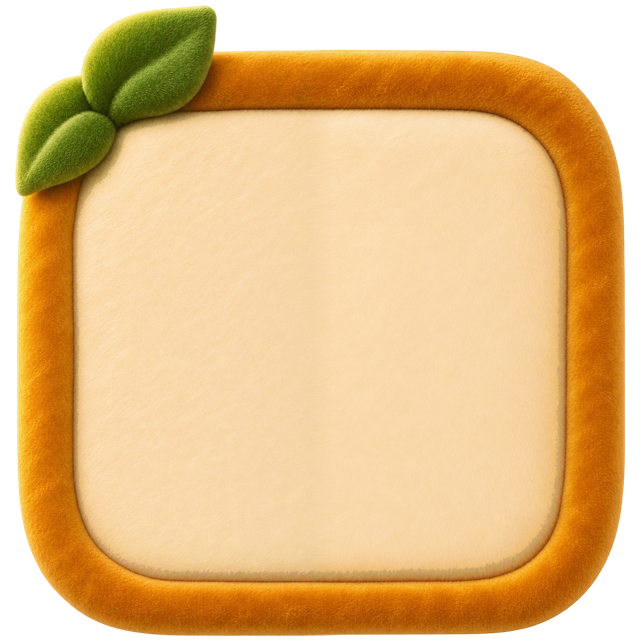
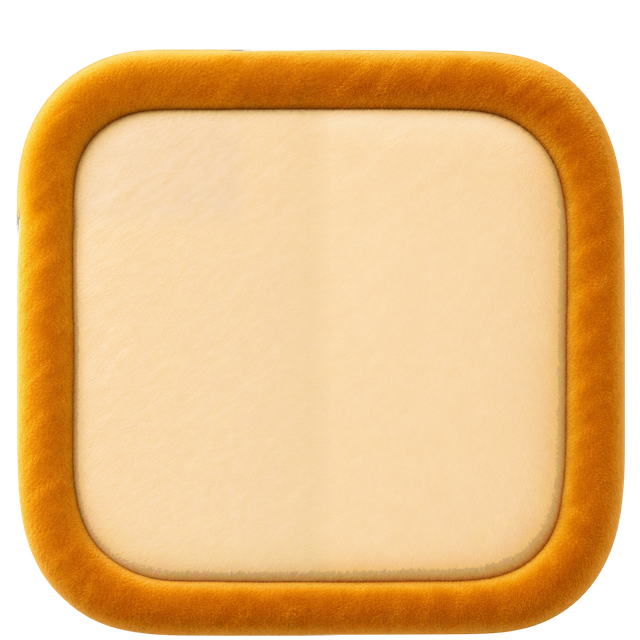
Paint level title ribbons and simplify plush panels

Changed region(s): [[0.0, 0.0, 0.375, 0.3438]]

diff --git a/docs/work-log/plush-ui-fixes/spec.md b/docs/work-log/plush-ui-fixes/spec.md
@@ -1,0 +1,39 @@
+# Plush UI art fixes
+
+The assigned art scope follows the binding `CLAUDE.md` lettering rules and the user's explicit asset request. No code or metadata changes are owned by this task.
+
+| Asset | Required output | Visual contract |
+| --- | --- | --- |
+| `Art/labels/label_title_level_<N>.png`, N = 1..40 | Forty RGBA PNGs, 2040 × 360 | Exact text `Level N`, generated together with the green velvet ribbon; match `label_title_daily_gift.png` lettering size, outline, lighting and two leaf clusters. |
+| `Art/labels/label_word_best.png` | RGBA PNG, height 150 | Painted `Best` alone, dark brown, no plate; cap height 100, baseline 126, matching brown numeral art. |
+| `Art/panel_wood.png` | RGBA PNG, 800 × 540 | Remove corner leaves while preserving honey-orange plush frame, cream area, thickness and 9-slice geometry. |
+| `Art/card_wood.png` | RGBA PNG, 640 × 640 | Same constrained removal as the panel. |
+
+Existing measurements: Daily Gift alpha bounds `(18,39)-(2022,320)`; panel bounds including leaves `(4,21)-(796,519)`; card bounds including leaves `(15,4)-(625,636)`. Brown 2 and 8 have alpha height 100, y 26..125. Existing slice borders (left, bottom, right, top) are panel `(150,100,150,110)` and card `(120,115,120,120)`; metadata remains untouched.
+
+Use the built-in image generation tool with the existing assets as references, generating multiple complete ribbons per image. No font rendering. Geometry-only processing may crop, size and place painted assets. Inspect every level's text at 300%. Record actual source resolution and any limits honestly.
+
+Required evidence: `art/sheet_levels.jpg` contains all forty levels. `art/sheet_best_panels.jpg` compares old/new panels on light/dark backgrounds and places Best beside brown digits 28. Preserve originals only in Git and temporary ignored build output. Commit and push only `plush-fix-art`.
+## Production prompt set
+
+All calls used the built-in image generation tool with `transparent_background: true`. The reference images were viewed before editing. The first four-title trial was discarded in favor of two-title sheets.
+
+Twenty two-title calls used the Daily Gift image (first pair) or a geometry-only sheet containing two unchanged copies of it (remaining pairs). Substitute consecutive pairs `(1,2)` through `(39,40)` below:
+
+> Use case: text-localization. The supplied image is the exact two-row EDIT TARGET. Preserve both ribbon silhouettes, green color, fine plush velvet texture, two leaf clusters, lighting and relative proportions exactly. Change ONLY the painted wording. Top ribbon text exactly "Level N"; Bottom ribbon text exactly "Level N+1". Cream-white thick rounded puffy painted letters with dark-green outline and soft shadow. Match the Daily Gift cap height and letter thickness exactly: about 195 pixels high on a 2040x360 tile. Text stays centered; shorter phrases leave more empty ribbon at the sides. Paint the whole lettering together with its ribbon, never fonts. Real alpha transparency outside both ribbons, clean cutout edges, no particles or halos. Highest resolution: requested 4080x1440 (two 4080x720 tiles); do not add captions or any other text.
+
+The common ribbon surface used for final size registration was generated with:
+
+> Use case: precise-object-edit. Exact EDIT TARGET supplied: this green velvet Daily Gift ribbon. Remove ONLY all lettering and its dark green outlines/shadows, seamlessly filling the former letters with the SAME green velvet ribbon surface. Keep the entire remaining ribbon exactly unchanged: identical wide aspect ratio, identical rounded padded green bar, identical two end leaf clusters with the exact leaf shapes and positions, same green hue, fine plush velvet texture, top-left warm light, transparent outer silhouette and original canvas padding. The output is one perfectly BLANK ribbon, no words, no letters, no symbols, no decoration added. Do not change size, proportions, shorten the bar, move leaves, or crop any part. Actual transparent alpha outside the ribbon. Highest available resolution for downscaling; target 4080x720.
+
+The panel and card were separately generated with:
+
+> Use case: precise-object-edit. EDIT TARGET is this existing UI panel sprite. Remove ONLY the green leaf clusters at its upper-left and lower-right corners, filling their places with the continuous honey-orange velvet frame and transparent exterior as appropriate. Preserve everything else exactly: same 800:540 canvas proportions, same scale and location, same rounded-rectangle silhouette and corner curves, same 50-60 pixel frame thickness (at 800 width), same cream interior with the SAME bounds, fine plush velvet texture, warm top-left light, same soft shadow. The panel body spans x=4..796, y=38..519 on the 800x540 reference. Cream interior spans approximately x=55..741 and y=96..461. Maintain these proportions and positions. No leaves anywhere, no foliage, no extra decoration, no text, no stitches, no fabric weave, no wood grain, no plastic. RGBA with real transparency outside the panel. Requested resolution 3200x2160, as large as available for clean downscaling. This is a constrained leaf-removal edit, not a redesign.
+
+> Use case: precise-object-edit. EDIT TARGET is the supplied existing square UI card. Remove ONLY the green leaf cluster at the upper-left corner. Fill its place with a continuous rounded honey-orange velvet frame and true transparent exterior where the leaf extended beyond the frame. Change nothing else. Preserve exact square canvas proportions, original panel scale/position, frame width about 57 pixels, rounded corner geometry, warm cream center area and its bounds, fine short plush velvet texture, soft top-left warm lighting and shadows. At the original 640x640 size the body bounds are x=16..625, y=49..636; center cream bounds approximately x=74..565, y=108..580. Preserve those geometry ratios, no change in frame thickness. No leaves anywhere, no text, no decorations, no seams, no stitching, no wood grain, no plastic. RGBA transparency outside the card. Request 2560x2560 high resolution for downscaling. This is a constrained leaf removal, not a redesign.
+
+The standalone word used the existing brown 2 and 8 as material references:
+
+> Use case: stylized-concept. Paint the exact word "Best" by hand as one transparent game UI word sprite, capital B then lowercase e s t, with clear complete letters. The two supplied brown numeral PNGs are the binding material, hue and stroke style references. Match their dark chocolate-brown rounded puffy painted strokes, subtle warm top-left highlight and softly shaded edges. The word sits on a shared straight baseline; a full round capital B with two counters, round lowercase e, soft curved s, lowercase t with a clear crossbar. Thick smooth soft embossed lettering, gentle velvet finish, no shiny plastic. Word alone, entirely freestanding on real transparent alpha. NO plate, NO ribbon, NO panel, NO underline, NO decorative elements, NO numerals or punctuation, NO external shadow plane. Do not reproduce the reference digits. Need a very large clean source at least 2048x768 for downscaling to a cap height of 100 pixels on a 150-pixel-high canvas. Preserve natural word proportions and spacing. Exact text: "Best".
+
+Whole painted phrases, including their outlines and surrounding ribbon material, may be geometrically registered to the common ribbon to match the measured reference lettering height. Individual characters are never constructed or assembled. Final numerical measurements and source-resolution limitations are recorded in the report.

diff --git a/docs/work-log/plush-ui-fixes/report.md b/docs/work-log/plush-ui-fixes/report.md
@@ -1,0 +1,49 @@
+# Plush UI art delivery
+
+Delivered forty `Art/labels/label_title_level_<N>.png` sprites for `Level 1` through `Level 40`, standalone `Art/labels/label_word_best.png`, and leaf-free replacements of `Art/panel_wood.png` and `Art/card_wood.png`. All runtime paths are under `PerchSort/Assets/Resources/`. No metadata or runtime code was added or changed.
+
+## Evidence
+
+- [All forty titles](art/sheet_levels.jpg), 2080 × 1060: numerical order, left to right, top to bottom.
+- [Best and panel comparisons](art/sheet_best_panels.jpg), 1600 × 1120: panel on the first row, card on the second, Best beside existing brown digits 28 on the third. Each panel row shows old/new on dark, then old/new on light.
+
+These are offline art comparisons, not Unity screenshots or runtime approval.
+
+## Production and measurements
+
+Used the built-in image generation tool, with transparent output enabled, for every painted element. [The specification](spec.md#production-prompt-set) records the prompts and references. Twenty generations painted two complete level ribbons each. An initial four-title trial was discarded because its source resolution was lower. A separate edit of Daily Gift produced a common blank ribbon surface for final geometric registration. No fonts, font baking, procedural lettering, or assembled character fragments were used.
+
+Every title is RGBA, exactly **2040 × 360**. The reference alpha rectangle `(18,39)-(2022,320)` governed sizing. Whole generated phrases, including their outlines, shadows and surrounding painted ribbon material, were cropped, scaled and placed over the common painted ribbon using feathered geometric cutouts. This corrects generation-to-generation letter-size drift while keeping the leaves and ribbon ends byte-identical across all forty outputs. The reference D's measured cream-fill cap height is 171 pixels; final L measurements are 170–172 pixels, a one-pixel raster tolerance. Full feathered/outlined letter extents are larger than this measurement. The original Daily Gift sprite is unchanged.
+
+Best is **280 × 150**, with alpha bounds `(6,26)-(274,126)`: 100-pixel cap height and baseline 126. Its complete painted word was downscaled from a 1857 × 694 substantive source region. The spelling B-e-s-t and its alignment/material beside brown 2 and 8 were inspected at 300%.
+
+Both panels were generated as constrained leaf-removal edits, registered to their original body geometry, and applied only around the former leaves with feathered geometric cutouts. All pixels outside those repair masks remain unchanged. No visible green leaf pixels remain. The original horizontal and vertical centerlines are byte-identical, preserving the original frame and cream transitions there.
+
+| Asset | Canvas | Body registration rectangle | Existing slice borders: left, bottom, right, top |
+| --- | --- | --- | --- |
+| panel_wood | 800 × 540 | `(4,38)-(796,519)` | `(150,100,150,110)` |
+| card_wood | 640 × 640 | `(16,49)-(625,636)` | `(120,115,120,120)` |
+
+Measured centerline frame bands, using alpha ≥128 for the body and the longest cream-color run (R≥180, G≥140, B≥100), are unchanged: panel left/right 52/60 pixels, top/bottom 61/68; card left/right 60/65, top/bottom 61/62. These color-transition measurements include the existing soft shading and are not new import borders. Existing `.meta` files and importer code remain byte-identical.
+
+Inspected **every numeral group, 1–40, at precisely 300% of final PNG pixels** and checked all complete title spellings on the family sheet. Every digit passed, including repeated digits and the open counters in 0, 4, 6, 8 and 9; no incorrect numeral required regeneration. Review crops, measurement JSON and geometry-only processing scripts remain in ignored `build/plush-ui-fixes/`.
+
+## Verification
+
+| Command/check | Result |
+| --- | --- |
+| `python3 ci/check_current_game_names.py --self-test` | 14 passed |
+| `python3 ci/check_current_game_names.py` | 0 violations; run with all delivery paths staged |
+| `python3 build/plush-ui-fixes/verify_art.py` | Passed: 43 PNGs, exact canvases, alpha/margins, forty titles, shared ends, Best metrics, unchanged panel centerlines and pixels outside repair masks, no remaining leaf pixels, no new metadata, both JPEG sheets |
+| Protected-state SHA-256 comparison | 1,924 scene/metadata/settings/package/agent-instruction files unchanged; AGENTS.md and CLAUDE.md identical |
+| `git diff --check` and `git diff --cached --check` | Passed |
+| `flock /tmp/unity.lock bash scripts/run_tests.sh` | Failed before Unity launch: configured Mac executable missing |
+| `flock /tmp/unity.lock bash scripts/screenshots.sh` | Failed before Unity launch: configured Mac executable missing |
+
+No Unity Editor process held the local lock. This assigned workspace runs Linux; `/Applications/Unity/Hub/Editor/6000.6.7f1/Unity.app/Contents/MacOS/Unity` does not exist. Both scripts exited 1. EditMode and PlayMode each executed **zero cases**; no result XML or skipped/passing counts exist. No runtime screenshots were produced. Mac import, compilation, full suites and runtime visual acceptance remain outstanding.
+
+## Source-resolution boundary
+
+The tool returned 2108–2111 × 745–746 pixels per two-title sheet despite requests for 4080 × 1440. The common blank ribbon source is 2172 × 724. Panel and card sources are 1526 × 1030 and 1254 × 1254 despite larger requests. These sources **do not meet the required native 2× oversampling** for their delivered canvases. Best does meet it. Final requested canvases are correct, and no synthetic enlargement is counted as native oversampling. Acceptance of this source-resolution exception remains with the assigning coordinator/user.
+
+The assigned `plush-fix-art` branch contains only the 43 runtime PNGs, two evidence JPEGs, this report and the specification. No source references, game rules, saves, levels, scene, settings, packages or metadata were changed. No peer branch or main was merged or pushed.
